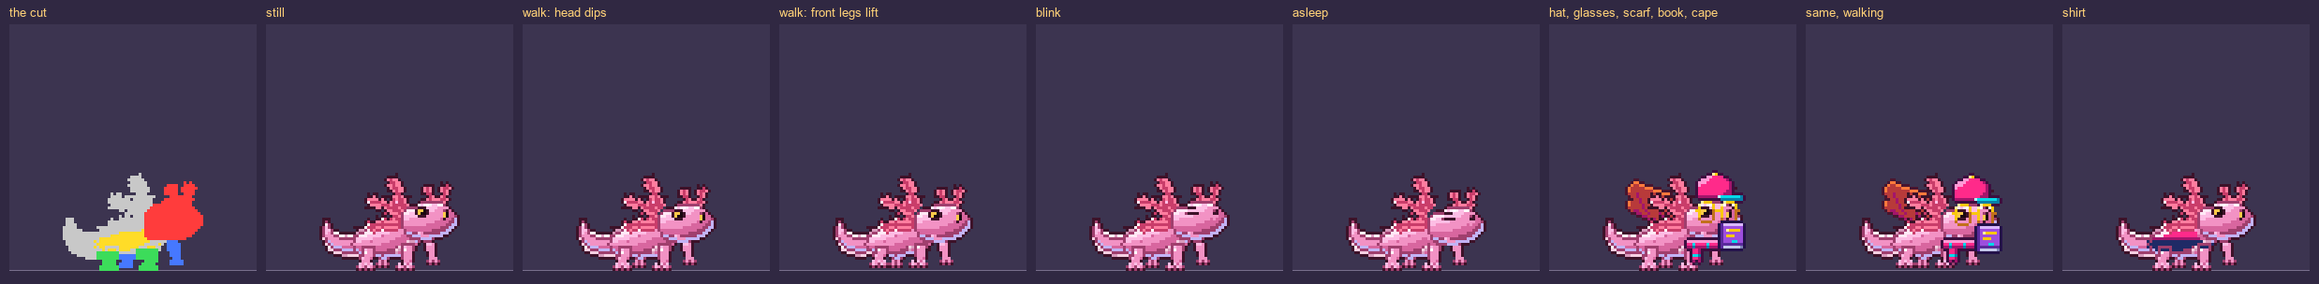
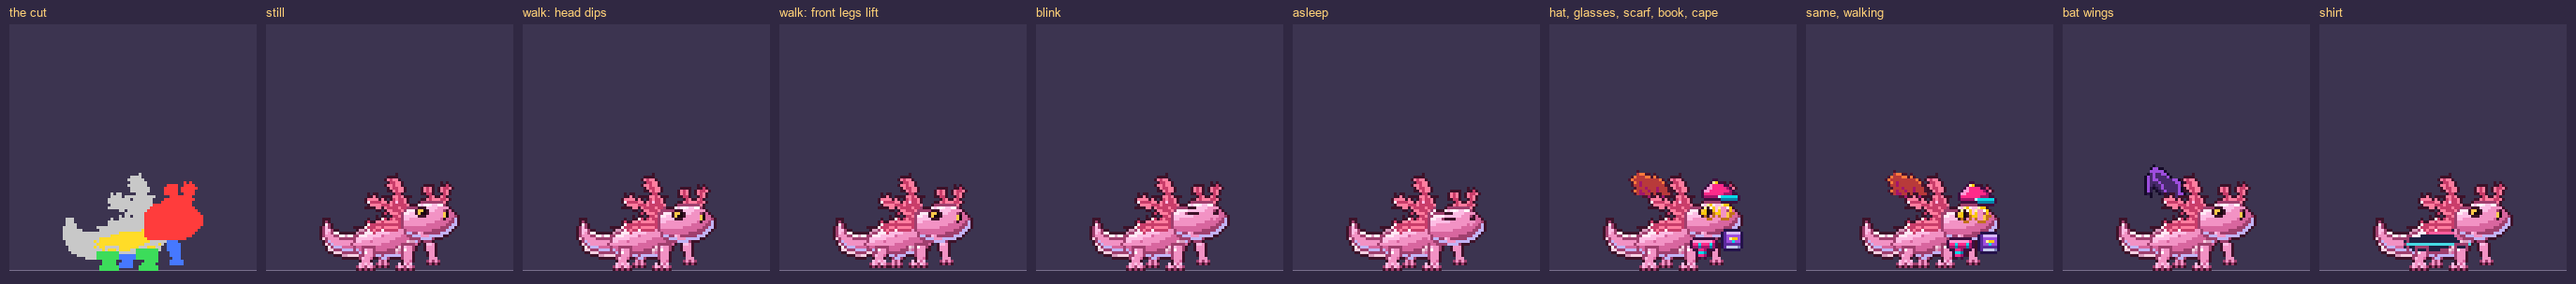
Creature game: wings and capes show on the boulder, the golems, the fluffball and the axolotl
The owner said yes to moving their back items up ("2 yes"): on the Moss boulder, Crystal golem, Treasure golem
and Fluffball they hid almost completely behind the creature, and only just showed on the axolotl. Their back
sockets now sit high on the back, some at an angle (rig.json and rig_hatchling.json, beasts.js rebuilt):
pebble [20, 18, -25] (baby [25, 33, -15]), rock_golem [24, 18] ([24, 36]), treasure_golem [22, 22] ([23, 42]),
fluffball [17, 12, -30] ([24, 32, -30]), axolotl [30, 26, -10] ([26, 38, -10]). Checked with bat wings and a cape
on all of them, and bat wings on every creature that can wear back items. Previews redrawn; CHANGELOG and HANDOFF.

diff --git a/web/js/game/beasts.js b/web/js/game/beasts.js
@@ -13,9 +13,9 @@ export const BEASTS = [
     sockets: { hat: [41, 27], face: [42, 30], neck: [42, 40], held: [47, 46], back: [31, 41] } } },
   { id: "fluffball", name: "Fluffball", type: "ember", set: "cyberpunk", plan: "biped", hue: 329,
     size: [64, 64], box: [3, 1, 54, 58], hover: 0, legs: ["legs_back", "legs_front"], shirt: true,
-    sockets: { hat: [39, 8], face: [42, 16], neck: [37, 32], held: [33, 44], back: [25, 36] },
+    sockets: { hat: [39, 8], face: [42, 16], neck: [37, 32], held: [33, 44], back: [17, 12, -30] },
     young: { size: [64, 64], box: [12, 22, 51, 63], hover: 0, legs: ["legs_back", "legs_front"], shirt: true,
-    sockets: { hat: [40, 27], face: [43, 32], neck: [38, 44], held: [37, 54], back: [30, 48] } } },
+    sockets: { hat: [40, 27], face: [43, 32], neck: [38, 44], held: [37, 54], back: [24, 32, -30] } } },
   { id: "dragon_whelp", name: "Dragon whelp", type: "ember", set: "fantasy", plan: "quad", wings: true, hue: 40,
     size: [64, 64], box: [1, 4, 62, 57], hover: 0, legs: ["legs_back", "legs_front"], shirt: true,
     sockets: { hat: [54, 14], face: [55, 17], neck: [47, 29], held: [54, 47], back: [24, 46] },
@@ -23,9 +23,9 @@ export const BEASTS = [
     sockets: { hat: [46, 31], face: [47, 33], neck: [44, 41], held: [52, 50], back: [25, 50] } } },
   { id: "axolotl", name: "Axolotl", type: "tide", set: "original", plan: "quad", hue: 329,
     size: [64, 64], box: [0, 8, 62, 60], hover: 0, legs: ["legs_back", "legs_front"], shirt: true,
-    sockets: { hat: [52, 24], face: [53, 27], neck: [47, 37], held: [56, 45], back: [30, 39] },
+    sockets: { hat: [52, 24], face: [53, 27], neck: [47, 37], held: [56, 45], back: [30, 26, -10] },
     young: { size: [64, 64], box: [5, 28, 54, 62], hover: 0, legs: ["legs_back", "legs_front"], shirt: true,
-    sockets: { hat: [46, 38], face: [46, 42], neck: [41, 52], held: [51, 55], back: [27, 46] } } },
+    sockets: { hat: [46, 38], face: [46, 42], neck: [41, 52], held: [51, 55], back: [26, 38, -10] } } },
   { id: "seal", name: "Cyber seal", type: "tide", set: "cyberpunk", plan: "blob", hue: 174,
     size: [64, 64], box: [1, 13, 62, 60], hover: 0, legs: ["legs_back", "legs_front"], shirt: true,
     sockets: { hat: [48, 15], face: [51, 18], neck: [50, 30], held: [55, 45], back: [25, 45] },
@@ -68,19 +68,19 @@ export const BEASTS = [
     sockets: { hat: [49, 26], face: [49, 32], neck: [45, 41], held: [51, 56], back: [27, 45] } } },
   { id: "pebble", name: "Moss boulder", type: "stone", set: "original", plan: "blob", hue: 34,
     size: [64, 64], box: [6, 6, 62, 60], hover: 0, legs: ["legs_back", "legs_front"], shirt: true,
-    sockets: { hat: [55, 24], face: [54, 33], neck: [49, 43], held: [40, 51], back: [20, 30] },
+    sockets: { hat: [55, 24], face: [54, 33], neck: [49, 43], held: [40, 51], back: [20, 18, -25] },
     young: { size: [64, 64], box: [11, 25, 57, 63], hover: 0, legs: ["legs_back", "legs_front"], shirt: true,
-    sockets: { hat: [46, 33], face: [46, 42], neck: [41, 52], held: [34, 53], back: [22, 46] } } },
+    sockets: { hat: [46, 33], face: [46, 42], neck: [41, 52], held: [34, 53], back: [25, 33, -15] } } },
   { id: "rock_golem", name: "Crystal golem", type: "stone", set: "cyberpunk", plan: "biped", hue: 123,
     size: [64, 64], box: [4, 6, 56, 61], hover: 0, legs: ["legs_back", "legs_front"], shirt: true,
-    sockets: { hat: [40, 14], face: [41, 22], neck: [42, 27], held: [14, 50], back: [22, 30] },
+    sockets: { hat: [40, 14], face: [41, 22], neck: [42, 27], held: [14, 50], back: [24, 18] },
     young: { size: [64, 64], box: [10, 28, 50, 63], hover: 0, legs: ["legs_back", "legs_front"], shirt: true,
-    sockets: { hat: [38, 29], face: [40, 37], neck: [39, 44], held: [17, 51], back: [20, 46] } } },
+    sockets: { hat: [38, 29], face: [40, 37], neck: [39, 44], held: [17, 51], back: [24, 36] } } },
   { id: "treasure_golem", name: "Treasure golem", type: "stone", set: "fantasy", plan: "blob", hue: 30,
     size: [64, 64], box: [1, 1, 59, 62], hover: 0, legs: ["legs_back", "legs_front"], shirt: true,
-    sockets: { hat: [42, 11], face: [40, 16], neck: [42, 22], held: [10, 45], back: [22, 36] },
+    sockets: { hat: [42, 11], face: [40, 16], neck: [42, 22], held: [10, 45], back: [22, 22] },
     young: { size: [64, 64], box: [9, 22, 54, 63], hover: 0, legs: ["legs_back", "legs_front"], shirt: true,
-    sockets: { hat: [39, 30], face: [40, 37], neck: [40, 44], held: [16, 50], back: [20, 54] } } },
+    sockets: { hat: [39, 30], face: [40, 37], neck: [40, 44], held: [16, 50], back: [23, 42] } } },
   { id: "winged_fox", name: "Winged fox", type: "dusk", set: "original", plan: "floater", wings: true, hue: 265,
     size: [64, 64], box: [1, 1, 62, 61], hover: 5, legs: [], shirt: true,
     sockets: { hat: [48, 13], face: [50, 20], neck: [48, 29], held: [51, 50], back: [32, 31] },

diff --git a/HANDOFF.md b/HANDOFF.md
@@ -6250,9 +6250,12 @@ Sheet of all 18 with their picks: `game/art-src-16bit/creatures/_lineup_18_ff.pn
   neck [49, 40], back [30, 22, -15] (baby: [50, 41, 20], [52, 45], [46, 50], [27, 37, -15]); its shirt skips the
   front shell (`"shirt": {"not": ...}`), so the shirt looks as before. beasts.py `underlay()`: where the body is
   right above the head, body.png keeps the head's top 2 rows under it, so a dip shows no gap (firefly; 1-3 pixels
-  on the axolotl, chick and dragon whelp). The preview sheet has a "bat wings" panel. Back items still hide behind
-  the Moss boulder, Crystal golem, Treasure golem and Fluffball (and barely show on the axolotl): their back sockets
-  want moving up (follow-up).
+  on the axolotl, chick and dragon whelp). The preview sheet has a "bat wings" panel. Back items hid behind the
+  Moss boulder, Crystal golem, Treasure golem and Fluffball (and barely showed on the axolotl); the owner said yes to
+  moving them up (2026-11-09), so their back sockets sit high on the back now, some at an angle: pebble [20, 18, -25]
+  (baby [25, 33, -15]), rock_golem [24, 18] ([24, 36]), treasure_golem [22, 22] ([23, 42]), fluffball
+  [17, 12, -30] ([24, 32, -30]), axolotl [30, 26, -10] ([26, 38, -10]). Every creature that can wear back items now
+  shows them (checked on the bat-wings panel of all 18, both looks).
 - **Not done / follow-ups**: mouths/expressions other than
   shut eyes aren't drawn (happy = eyes shut); capes mostly hide behind big wings (dragon, griffin, winged fox) and
   stand up a little on four-legged backs (the cape item's shape); habitat bubbles assume the drawing's full height.

diff --git a/CHANGELOG.md b/CHANGELOG.md
@@ -14,6 +14,7 @@ The app was called **Arabic Podcast Studio** until v0.8.0.
 
 ## Unreleased
 
+- **Improved:** Wings and capes now show on the Moss boulder, Crystal golem, Treasure golem, Fluffball and Axolotl, rising from the top of their backs. Before, they hid almost completely behind the creature.
 - **Improved:** The Firefly beetle's head is just its head now. Hats, glasses and scarves sit on its real head (the cap tilts forward with it), it nods and blinks without moving its whole shell, and wings or a cape on its back show above its shell. Things worn by a creature can now sit at an angle, to fit its body.
 - **Changed:** What a creature can wear now goes by where it's worn, so new creatures and new things follow the same rule. An egg wears a hat and **anything on its back** (a cape, a satchel, balloons and so on, not only wings; wings stick out on both sides). A creature with wings of its own (Phoenix chick, Dragon whelp, Thunder griffin and Winged fox) wears **nothing on its back**, not only no wings. What it can't wear stays in your bag for another creature.
 - **Changed:** Battle questions always show a card's meaning, in your own language, and the four choices are always words in the language you're learning. Before, about two questions in three were the other way round. A word whose meaning is just the word itself isn't asked.

diff --git a/web/changelog.md b/web/changelog.md
@@ -14,6 +14,7 @@ The app was called **Arabic Podcast Studio** until v0.8.0.
 
 ## Unreleased
 
+- **Improved:** Wings and capes now show on the Moss boulder, Crystal golem, Treasure golem, Fluffball and Axolotl, rising from the top of their backs. Before, they hid almost completely behind the creature.
 - **Improved:** The Firefly beetle's head is just its head now. Hats, glasses and scarves sit on its real head (the cap tilts forward with it), it nods and blinks without moving its whole shell, and wings or a cape on its back show above its shell. Things worn by a creature can now sit at an angle, to fit its body.
 - **Changed:** What a creature can wear now goes by where it's worn, so new creatures and new things follow the same rule. An egg wears a hat and **anything on its back** (a cape, a satchel, balloons and so on, not only wings; wings stick out on both sides). A creature with wings of its own (Phoenix chick, Dragon whelp, Thunder griffin and Winged fox) wears **nothing on its back**, not only no wings. What it can't wear stays in your bag for another creature.
 - **Changed:** Battle questions always show a card's meaning, in your own language, and the four choices are always words in the language you're learning. Before, about two questions in three were the other way round. A word whose meaning is just the word itself isn't asked.
